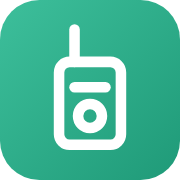
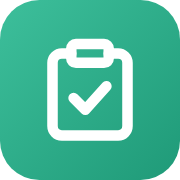
Nombre «Préstamo de Equipos», ícono general y tarjeta para compartir
- La app ya no se llama «Control de Radios»: presta radios, impermeables,
  chaquetas y demás equipos. Cambian el menú, la cabecera, Inicio, el
  carnet, Etiquetas, Personas, Reportes, el manifiesto y el LEEME.
- Ícono nuevo: portapapeles con visto bueno (SVG y PNG).
- Etiquetas og: con vista-previa.jpg (ícono + logo de la iglesia) para
  que WhatsApp muestre una tarjeta al compartir el enlace.

Changed region(s): [[0.25, 0.1111, 0.75, 0.8333]]

diff --git a/radios/js/main.js b/radios/js/main.js
@@ -67,8 +67,8 @@ function pantallaSuelta(...contenido) {
   cortarVista = null;
   vaciar(raiz, h('div', { class: 'suelta' },
     h('div', { class: 'suelta-tarjeta' },
-      h('div', { class: 'suelta-marca' }, h('span', { class: 'logo' }, icono('radio')),
-        h('div', null, h('strong', null, 'Control de Radios'), h('small', null, config.marca?.organizacion || 'Logística'))),
+      h('div', { class: 'suelta-marca' }, h('span', { class: 'logo' }, icono('logo')),
+        h('div', null, h('strong', null, 'Préstamo de Equipos'), h('small', null, config.marca?.organizacion || 'Logística'))),
       ...contenido)));
 }
 
@@ -282,14 +282,14 @@ function montarMarco() {
   vistaEl = h('main', { class: 'vista', id: 'vista', tabindex: '-1' });
   vaciar(raiz, h('div', { class: 'marco' },
     h('aside', { class: 'lateral' },
-      h('div', { class: 'lateral-marca' }, h('span', { class: 'logo' }, icono('radio')),
-        h('div', null, h('strong', null, 'Control de Radios'), h('small', { 'data-org': '' }, app.ajustes.orgNombre))),
+      h('div', { class: 'lateral-marca' }, h('span', { class: 'logo' }, icono('logo')),
+        h('div', null, h('strong', null, 'Préstamo de Equipos'), h('small', { 'data-org': '' }, app.ajustes.orgNombre))),
       h('nav', { class: 'nav-lat' }, navLat.map((i) => item(i, 'nav-item'))),
       boton('Salir', { tipo: 'texto', ico: 'salir', clase: 'lateral-salir', onclick: salir })),
     h('div', { class: 'principal' },
       h('header', { class: 'cabecera' },
-        h('a', { href: '#/inicio', class: 'cabecera-marca' }, h('span', { class: 'logo' }, icono('radio')),
-          h('span', null, h('strong', null, 'Radios'), h('small', null, config.marca?.corto || 'Logística'))),
+        h('a', { href: '#/inicio', class: 'cabecera-marca' }, h('span', { class: 'logo' }, icono('logo')),
+          h('span', null, h('strong', null, 'Préstamos'), h('small', null, config.marca?.corto || 'Logística'))),
         conexionEl, usuarioEl),
       app.almacen.modo === 'demo' && h('div', { class: 'banda-demo' },
         icono('alerta'), h('span', null, 'Modo demostración: los datos se guardan solo en este navegador. '),

diff --git a/radios/index.html b/radios/index.html
@@ -10,12 +10,23 @@
 </script>
 <meta name="viewport" content="width=device-width, initial-scale=1, viewport-fit=cover" />
 <script>try { document.documentElement.dataset.tema = localStorage.getItem('radios-tema') || 'claro'; } catch (e) {}</script>
-<title>Radios · Su Presencia</title>
-<meta name="description" content="Entrega y devolución de radios e impermeables con código QR." />
+<title>Préstamo de Equipos · Su Presencia</title>
+<meta name="description" content="Entrega y devolución de radios, impermeables y demás equipos de Logística con código QR." />
 <meta name="robots" content="noindex" />
+<!-- Tarjeta que muestran WhatsApp y otras apps al compartir el enlace.
+     WhatsApp necesita la dirección completa de la imagen: si la app se publica
+     en otra dirección, cámbiala aquí (ver LEEME.md, «Vista previa del enlace»). -->
+<meta property="og:type" content="website" />
+<meta property="og:title" content="Préstamo de Equipos · Logística" />
+<meta property="og:description" content="Entrega y devolución de radios, impermeables y demás equipos de Logística, El Lugar de Su Presencia." />
+<meta property="og:image" content="https://prestamos-su-presencia.vercel.app/vista-previa.jpg" />
+<meta property="og:image:width" content="1200" />
+<meta property="og:image:height" content="630" />
+<meta property="og:image:alt" content="Préstamo de Equipos · Logística, El Lugar de Su Presencia" />
+<meta name="twitter:card" content="summary_large_image" />
 <meta name="theme-color" content="#17191e" />
 <meta name="apple-mobile-web-app-capable" content="yes" />
-<meta name="apple-mobile-web-app-title" content="Radios" />
+<meta name="apple-mobile-web-app-title" content="Préstamos" />
 <link rel="manifest" href="manifest.webmanifest" />
 <link rel="icon" href="icono.svg" type="image/svg+xml" />
 <link rel="apple-touch-icon" href="icono-180.png" />

diff --git a/radios/js/vistas/ajustes.js b/radios/js/vistas/ajustes.js
@@ -49,7 +49,7 @@ export default function vistaAjustes(raiz) {
             pintarTipos();
           },
         }))),
-      boton('Agregar tipo (botiquín, chaleco…)', {
+      boton('Agregar tipo (chaqueta, chaleco, botiquín…)', {
         tipo: 'texto', ico: 'mas1',
         onclick: () => { a.tipos.push({ id: '', nombre: '', plural: '', prefijo: '' }); pintarTipos(); },
       }));
@@ -104,7 +104,7 @@ export default function vistaAjustes(raiz) {
     h('section', { class: 'tarjeta' }, h('h2', null, 'Áreas'),
       h('p', { class: 'suave mini' }, 'El color identifica el área en listas y etiquetas (como los letreros del armario).'), zonaAreas),
     h('section', { class: 'tarjeta' }, h('h2', null, 'Tipos de equipo'),
-      h('p', { class: 'suave mini' }, 'Radio e impermeable vienen de base. Puedes agregar otros elementos que también se presten.'), zonaTipos),
+      h('p', { class: 'suave mini' }, 'Radio e impermeable vienen de base. Puedes agregar otros elementos que también se presten, como chaquetas o chalecos.'), zonaTipos),
     h('section', { class: 'tarjeta' }, h('h2', null, 'Tipos de novedad al devolver'),
       h('p', { class: 'suave mini' }, 'Aparecen como opciones al recibir un equipo con falla. "Mantenimiento" deja marcada la opción de sacarlo de circulación.'), zonaNovedades),
     h('div', { class: 'acciones' }, boton('Guardar cambios', { tipo: 'pri', ico: 'check', onclick: guardar })),

diff --git a/radios/js/vistas/inicio.js b/radios/js/vistas/inicio.js
@@ -11,11 +11,11 @@ export default function inicio(raiz) {
   raiz.append(
     h('div', { class: 'encabezado' },
       h('div', null,
-        h('h1', null, 'Radios e impermeables'),
+        h('h1', null, 'Préstamo de equipos'),
         h('p', { class: 'suave' }, `${diaLargo(Date.now())} · ${app.ajustes.orgNombre}`),
         hoyEl)),
     puede.operar() && h('div', { class: 'acciones-grandes' },
-      h('a', { href: '#/entregar', class: 'accion-grande entregar' }, icono('entregar'), h('span', null, h('strong', null, 'Entregar'), h('small', null, 'Prestar radio o impermeable'))),
+      h('a', { href: '#/entregar', class: 'accion-grande entregar' }, icono('entregar'), h('span', null, h('strong', null, 'Entregar'), h('small', null, 'Prestar un equipo'))),
       h('a', { href: '#/recibir', class: 'accion-grande recibir' }, icono('recibir'), h('span', null, h('strong', null, 'Recibir'), h('small', null, 'Registrar devolución')))),
     resumen,
     prestados,

diff --git a/radios/js/vistas/etiquetas.js b/radios/js/vistas/etiquetas.js
@@ -79,7 +79,7 @@ export default function vistaEtiquetas(raiz) {
             h('strong', null, p.nombre),
             p.area && h('span', null, p.area),
             p.cargo && h('span', null, p.cargo),
-            h('small', null, 'Carnet para préstamo de radios e impermeables'))))));
+            h('small', null, 'Carnet para préstamo de equipos'))))));
     } else {
       const clase = TAMANOS[st.tamano][1];
       vaciar(hoja, lista.map((e) => h('div', { class: `etiqueta ${clase}`, style: { '--c': colorArea(e.area) } },
@@ -117,7 +117,7 @@ export default function vistaEtiquetas(raiz) {
   }
 
   raiz.append(
-    h('div', { class: 'no-imprimir' }, encabezado('Etiquetas QR', 'Pega una en cada radio e impermeable', imprimir)),
+    h('div', { class: 'no-imprimir' }, encabezado('Etiquetas QR', 'Pega una en cada equipo', imprimir)),
     controles,
     seleccion,
     hoja,

diff --git a/radios/config.js b/radios/config.js
@@ -1,4 +1,4 @@
-// Configuración de la app de control de radios e impermeables.
+// Configuración de la app de préstamo de equipos (radios, impermeables y demás).
 //
 // Mientras firebaseConfig sea null, la app funciona en MODO DEMO: todo se
 // guarda solo en el navegador de este dispositivo (sirve para probarla).
@@ -13,9 +13,9 @@ export const firebaseConfig = null;
 /* Ejemplo (reemplaza con los datos de tu proyecto):
 export const firebaseConfig = {
   apiKey: 'AIza...',
-  authDomain: 'control-radios.firebaseapp.com',
-  projectId: 'control-radios',
-  storageBucket: 'control-radios.firebasestorage.app',
+  authDomain: 'prestamo-equipos.firebaseapp.com',
+  projectId: 'prestamo-equipos',
+  storageBucket: 'prestamo-equipos.firebasestorage.app',
   messagingSenderId: '1234567890',
   appId: '1:1234567890:web:abc123',
 };

diff --git a/radios/js/ui.js b/radios/js/ui.js
@@ -40,6 +40,7 @@ const P = {
   inicio: '<path d="M3 10.5 12 3l9 7.5"/><path d="M5 9.5V21h14V9.5"/><path d="M10 21v-6h4v6"/>',
   entregar: '<path d="M12 3v12"/><path d="m7 10 5 5 5-5"/><path d="M5 21h14"/>',
   recibir: '<path d="M12 15V3"/><path d="m7 8 5-5 5 5"/><path d="M5 21h14"/>',
+  logo: '<rect x="8" y="2.5" width="8" height="4" rx="1"/><path d="M16 4.5h2a2 2 0 0 1 2 2V20a2 2 0 0 1-2 2H6a2 2 0 0 1-2-2V6.5a2 2 0 0 1 2-2h2"/><path d="m8.5 14 2.5 2.5 4.5-5"/>',
   radio: '<rect x="6" y="8" width="12" height="13" rx="2"/><path d="M9 8V2"/><path d="M9 12h6"/><circle cx="12" cy="16.5" r="2"/>',
   impermeable: '<path d="M9 3h6l1.5 3.5L20 8l-1.5 6H17v7H7v-7H5.5L4 8l3.5-1.5Z"/><path d="M12 3v18"/>',
   equipo: '<rect x="3" y="7" width="18" height="13" rx="2"/><path d="M8 7V4h8v3"/>',

diff --git a/radios/js/vistas/ayuda.js b/radios/js/vistas/ayuda.js
@@ -27,7 +27,7 @@ export default function vistaAyuda(raiz) {
       h('h2', null, 'Entregar'),
       pasos(
         'Busca a la persona por nombre o celular, o escanea su carnet. Si no existe, regístrala ahí mismo.',
-        'Toca "Escanear QR de los equipos" y pasa la cámara por cada radio o impermeable. También puedes escribir el código.',
+        'Toca "Escanear QR de los equipos" y pasa la cámara por cada equipo. También puedes escribir el código.',
         'Si lleva manos libres u otro accesorio, anótalo. Pide la firma con el dedo.',
         'Confirma. Queda registrado quién entregó, a quién, qué y a qué hora.',
       )),

diff --git a/radios/js/vistas/personas.js b/radios/js/vistas/personas.js
@@ -41,7 +41,7 @@ export default function vistaPersonas(raiz) {
   }
 
   raiz.append(
-    encabezado('Personas', 'Quienes reciben radios e impermeables',
+    encabezado('Personas', 'Quienes reciben equipos en préstamo',
       puede.operar() && boton('Nueva', { tipo: 'pri', ico: 'mas1', onclick: () => dialogoPersona() })),
     h('div', { class: 'buscador' }, icono('buscar'), buscar),
     h('div', { class: 'filtros' },

diff --git a/radios/js/vistas/reportes.js b/radios/js/vistas/reportes.js
@@ -189,7 +189,7 @@ export default function vistaReportes(raiz) {
   let exportarResumen = () => {};
 
   raiz.append(
-    encabezado('Reportes', 'Frecuencia de uso de radios e impermeables',
+    encabezado('Reportes', 'Frecuencia de uso de los equipos',
       boton('Uso por equipo (Excel)', { ico: 'descargar', onclick: () => exportarResumen() })),
     h('div', { class: 'filtros' },
       rangoSel.el,

diff --git a/radios/LEEME.md b/radios/LEEME.md
@@ -1,8 +1,8 @@
-# Control de Radios e Impermeables — Logística, El Lugar de Su Presencia
+# Préstamo de Equipos · Logística, El Lugar de Su Presencia
 
-Aplicación web para registrar la entrega y devolución de radios e impermeables con
-código QR. Reemplaza el cuaderno de préstamos (Fecha · Hora · Nombre · Omega · Firma ·
-Devolución) y deja estadísticas de frecuencia de uso.
+Aplicación web para registrar la entrega y devolución de radios, impermeables y demás
+equipos de Logística con código QR. Reemplaza el cuaderno de préstamos (Fecha · Hora ·
+Nombre · Omega · Firma · Devolución) y deja estadísticas de frecuencia de uso.
 
 Son archivos sueltos (HTML, CSS y JavaScript): no hay que instalar nada ni compilar.
 
@@ -115,6 +115,14 @@ Vercel (gratis):
 
 Netlify, GitHub Pages o Firebase Hosting también sirven.
 
+### Vista previa del enlace
+
+Al compartir el enlace por WhatsApp aparece una tarjeta con la imagen `vista-previa.jpg`
+(el ícono de la app y el logo de la iglesia). WhatsApp necesita la dirección completa de
+esa imagen, que está en `index.html`, en la línea `og:image`. Trae la de la versión de
+prueba (`https://prestamos-su-presencia.vercel.app/vista-previa.jpg`); cuando la app quede
+en su dirección definitiva, cámbiala por `https://<dirección-definitiva>/vista-previa.jpg`.
+
 ## Paso 4. Primer ingreso
 
 1. Abre la app publicada: la primera vez pide crear la **cuenta del administrador**.
@@ -123,7 +131,7 @@ Netlify, GitHub Pages o Firebase Hosting también sirven.
 2. En *Usuarios*, crea las cuentas de Logística (correo + contraseña temporal + rol).
 3. En *Ajustes*, revisa las áreas con sus colores, el tiempo de alerta y si la firma es
    obligatoria.
-4. En *Equipos → Agregar varios*, crea los radios e impermeables, y en *Etiquetas QR*
+4. En *Equipos → Agregar varios*, crea los radios, los impermeables y demás equipos, y en *Etiquetas QR*
    imprime sus códigos.
 
 Notas:
@@ -167,6 +175,7 @@ buscador funciona con el nombre o el celular.
 | `js/escaner.js`, `js/qr.js` | Lector y generador de QR |
 | `js/vistas/*` | Cada pantalla |
 | `sw.js`, `manifest.webmanifest` | Abrirla sin señal e instalarla en el celular |
+| `icono*.png`, `icono.svg`, `vista-previa.jpg` | Ícono de la app y tarjeta para compartir el enlace |
 | `vendor/` | jsQR (Apache-2.0) y qrcode-generator (MIT) |
 | `fuentes/` | Montserrat (SIL Open Font License) |
 
